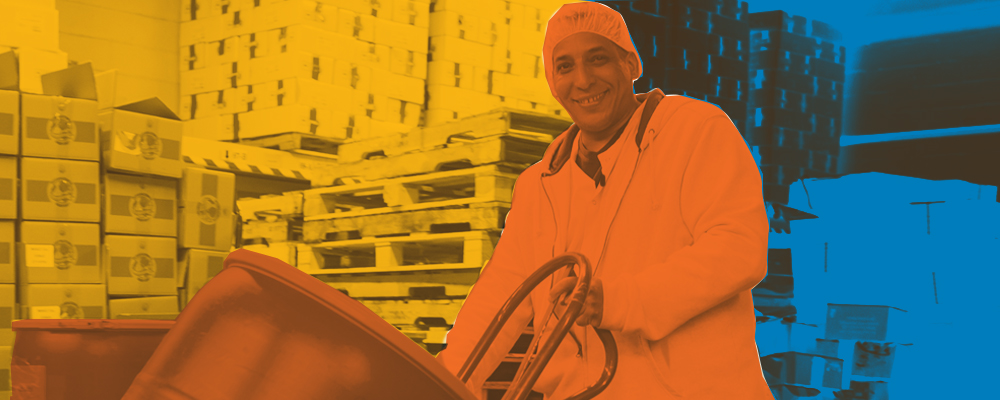
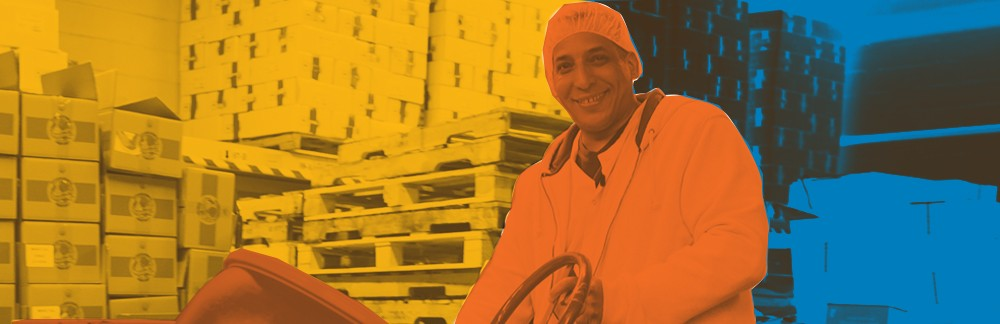
home

diff --git a/src/css/home.css b/src/css/home.css
@@ -14,7 +14,7 @@
 }
   
   .carousel-item {
-    height: 34rem;
+    height: 36rem;
   }
 
   .carousel-item > img {
@@ -22,7 +22,7 @@
     top: 0;
     left: 0;
     min-width: 100%;
-    height: 34rem;
+    height: auto
   }
 
   .bg-carousel{
@@ -55,7 +55,7 @@ input#search {
 
 div#match-list {
   position: absolute;
-  top: 120px;
+  top:  8.5em;
   z-index: 200;
 }
 
